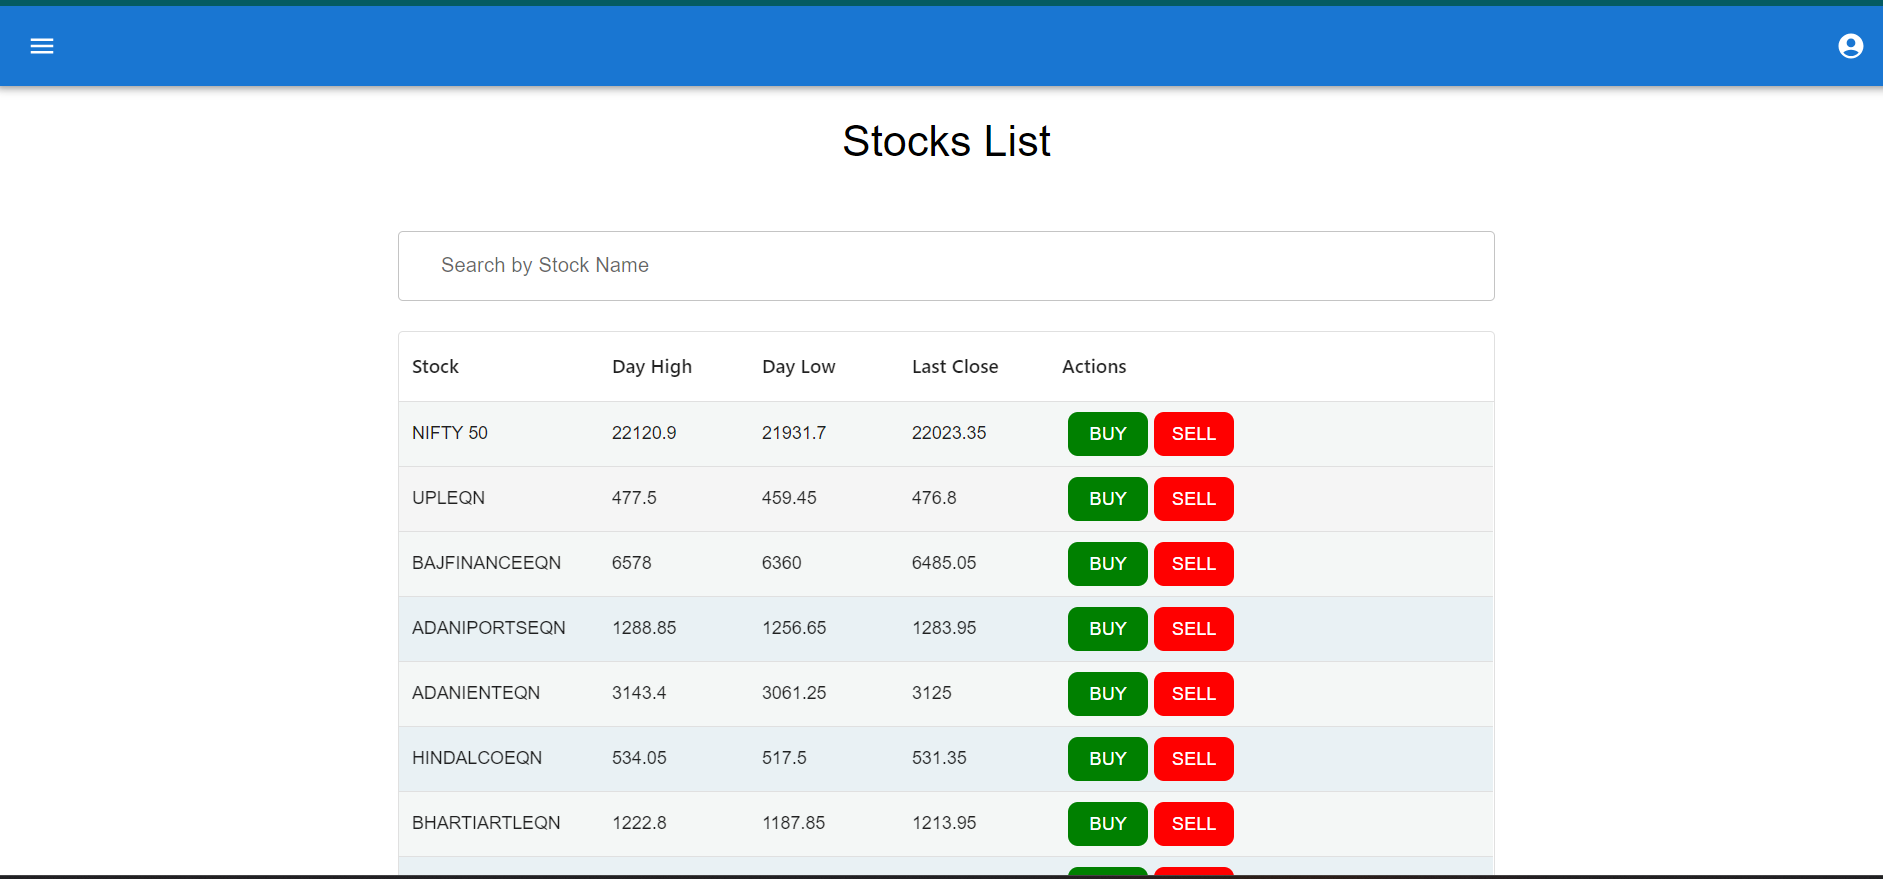
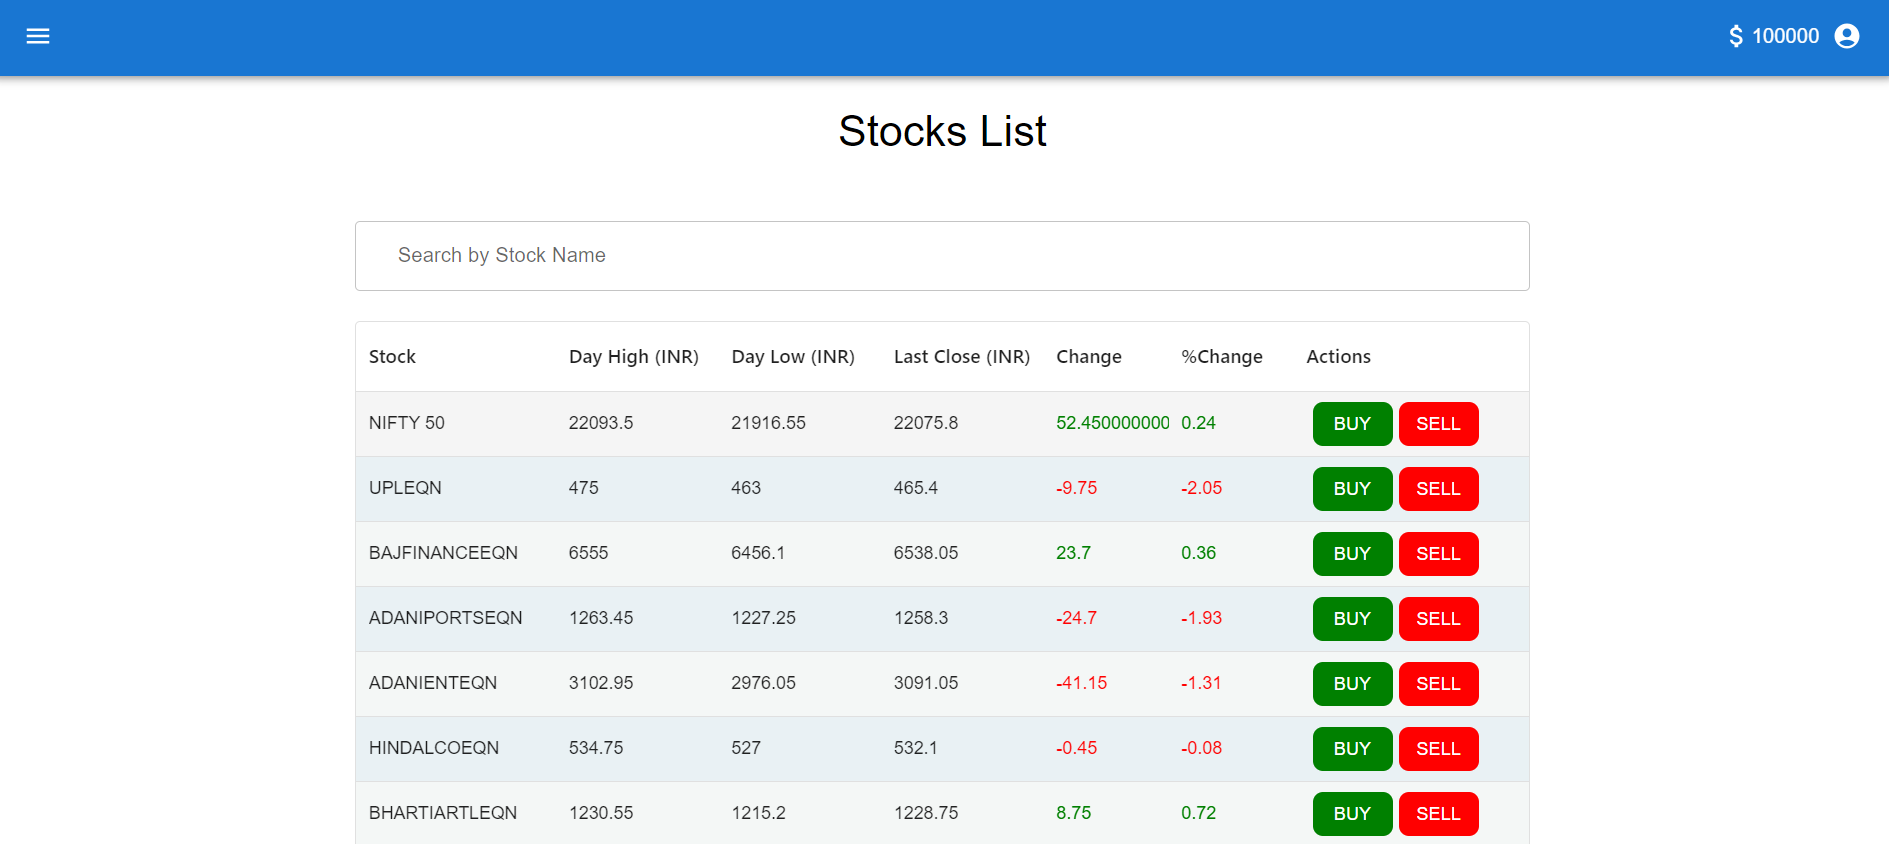
update : readme

diff --git a/README.md b/README.md
@@ -54,4 +54,10 @@
 ### Key Features:
 
 1. **Stock Trading:** Users can conveniently buy and sell stocks.
-2. **Real-time Market Data:** Market data is refreshed periodically for up-to-date information. (2 mins)
+2. **Real-time Market Data:** Market data is refreshed periodically for up-to-date information. (Every 2 minutes)
+
+### Market Data Details:
+
+- **Change:** Represents the absolute difference between the current price of the stock and its previous close.
+- **%Change:** Indicates the percentage change in the price of the stock compared to its previous close.
+
